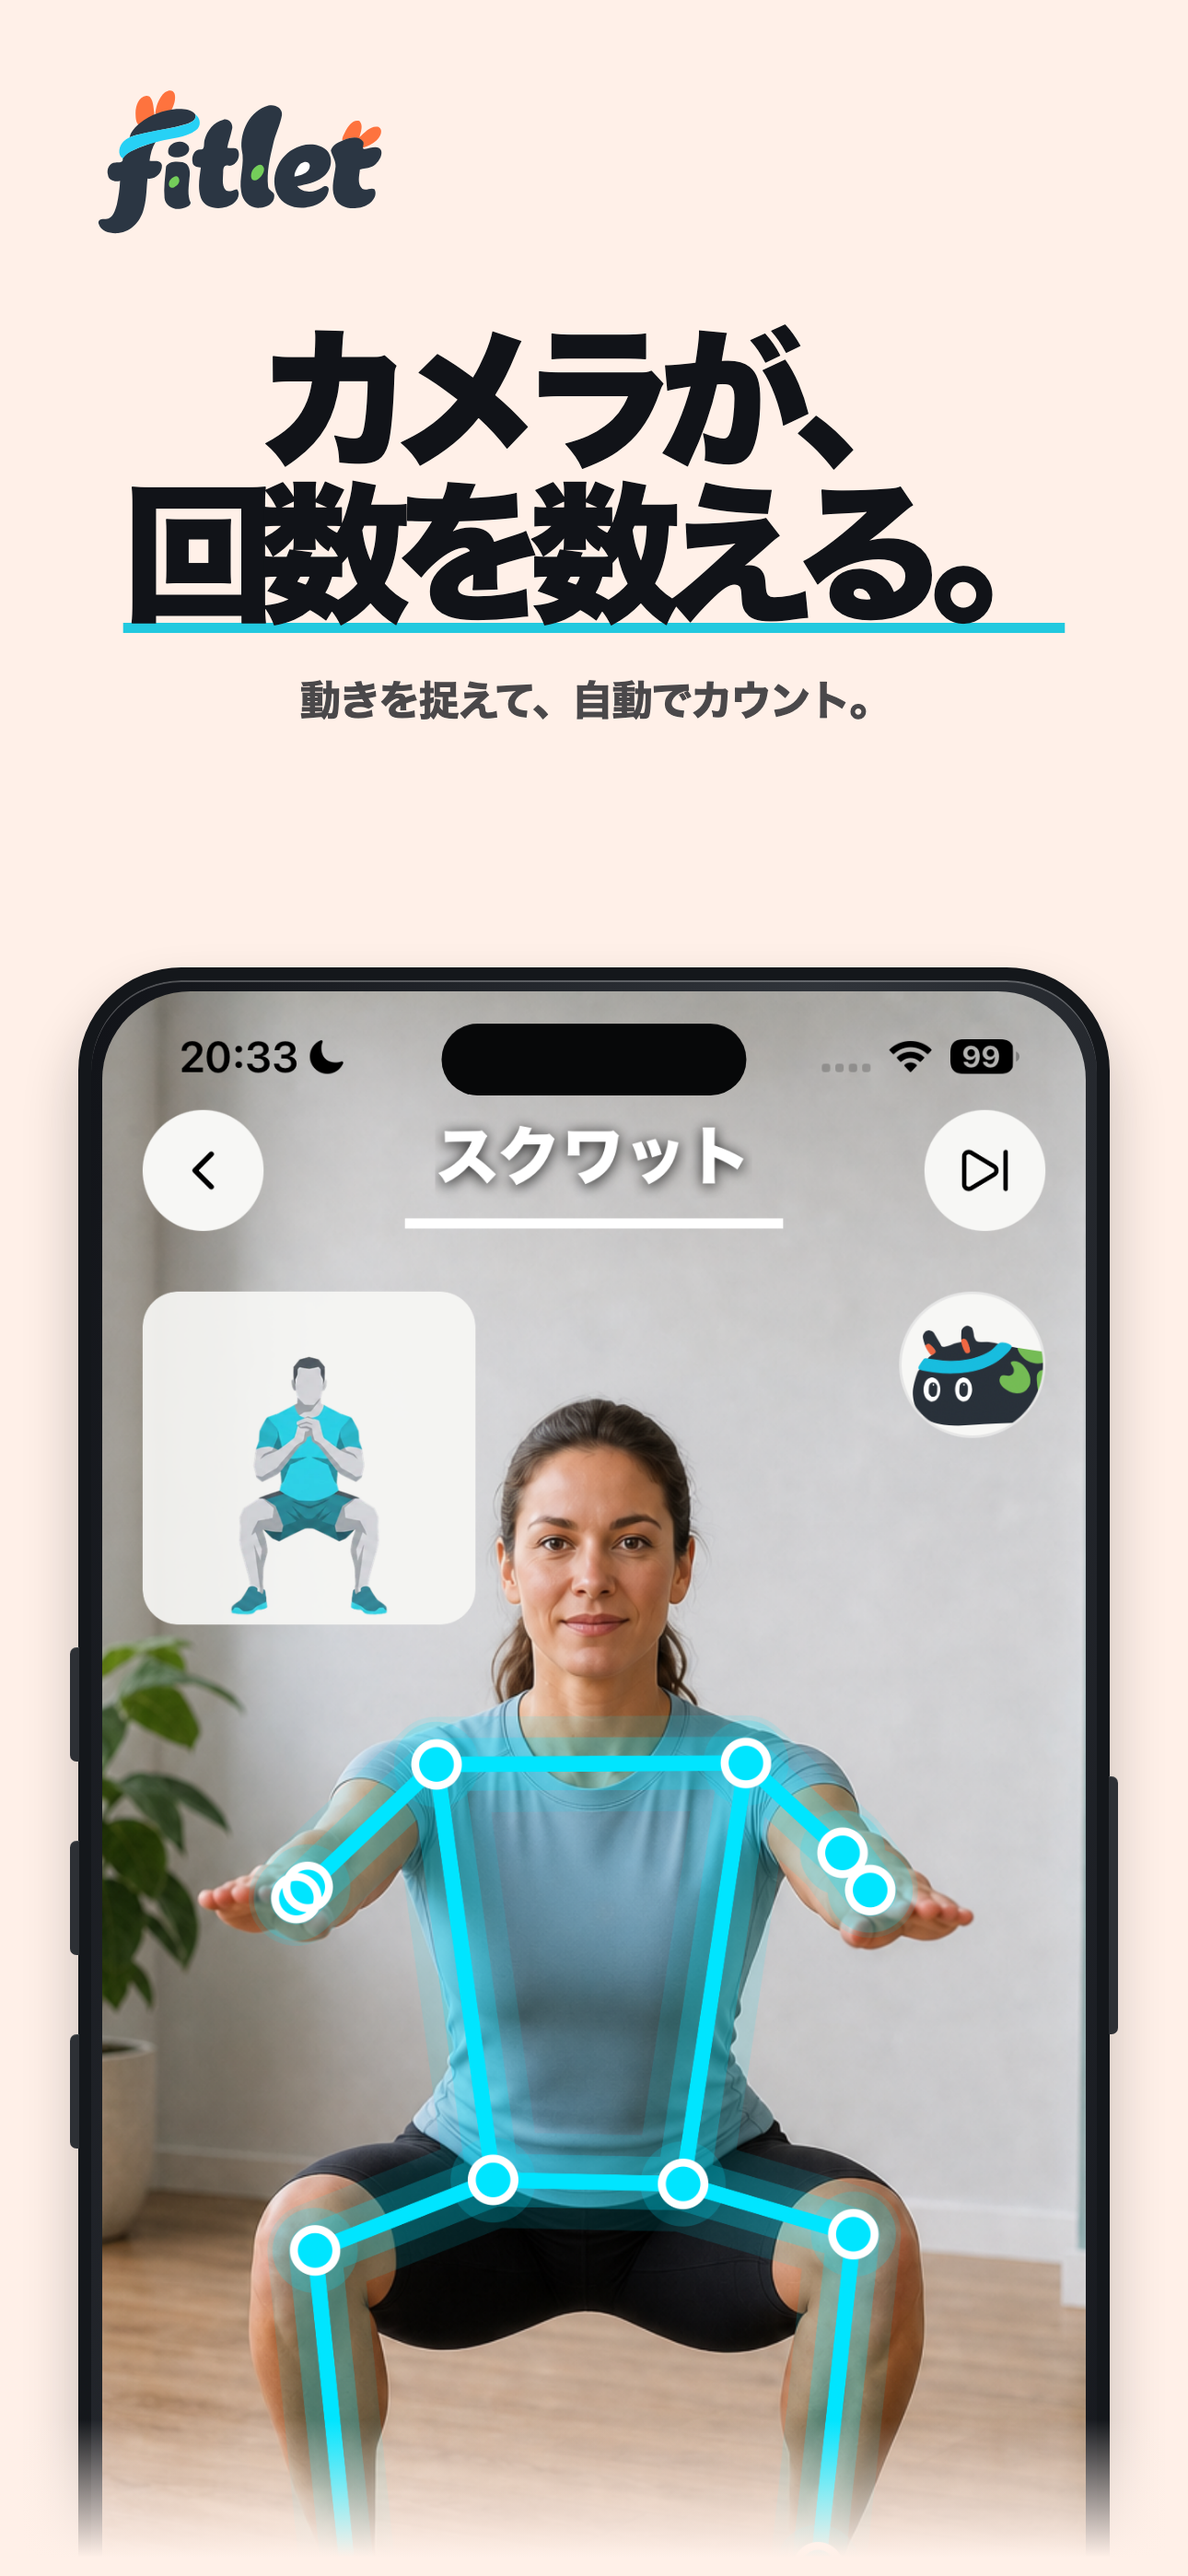
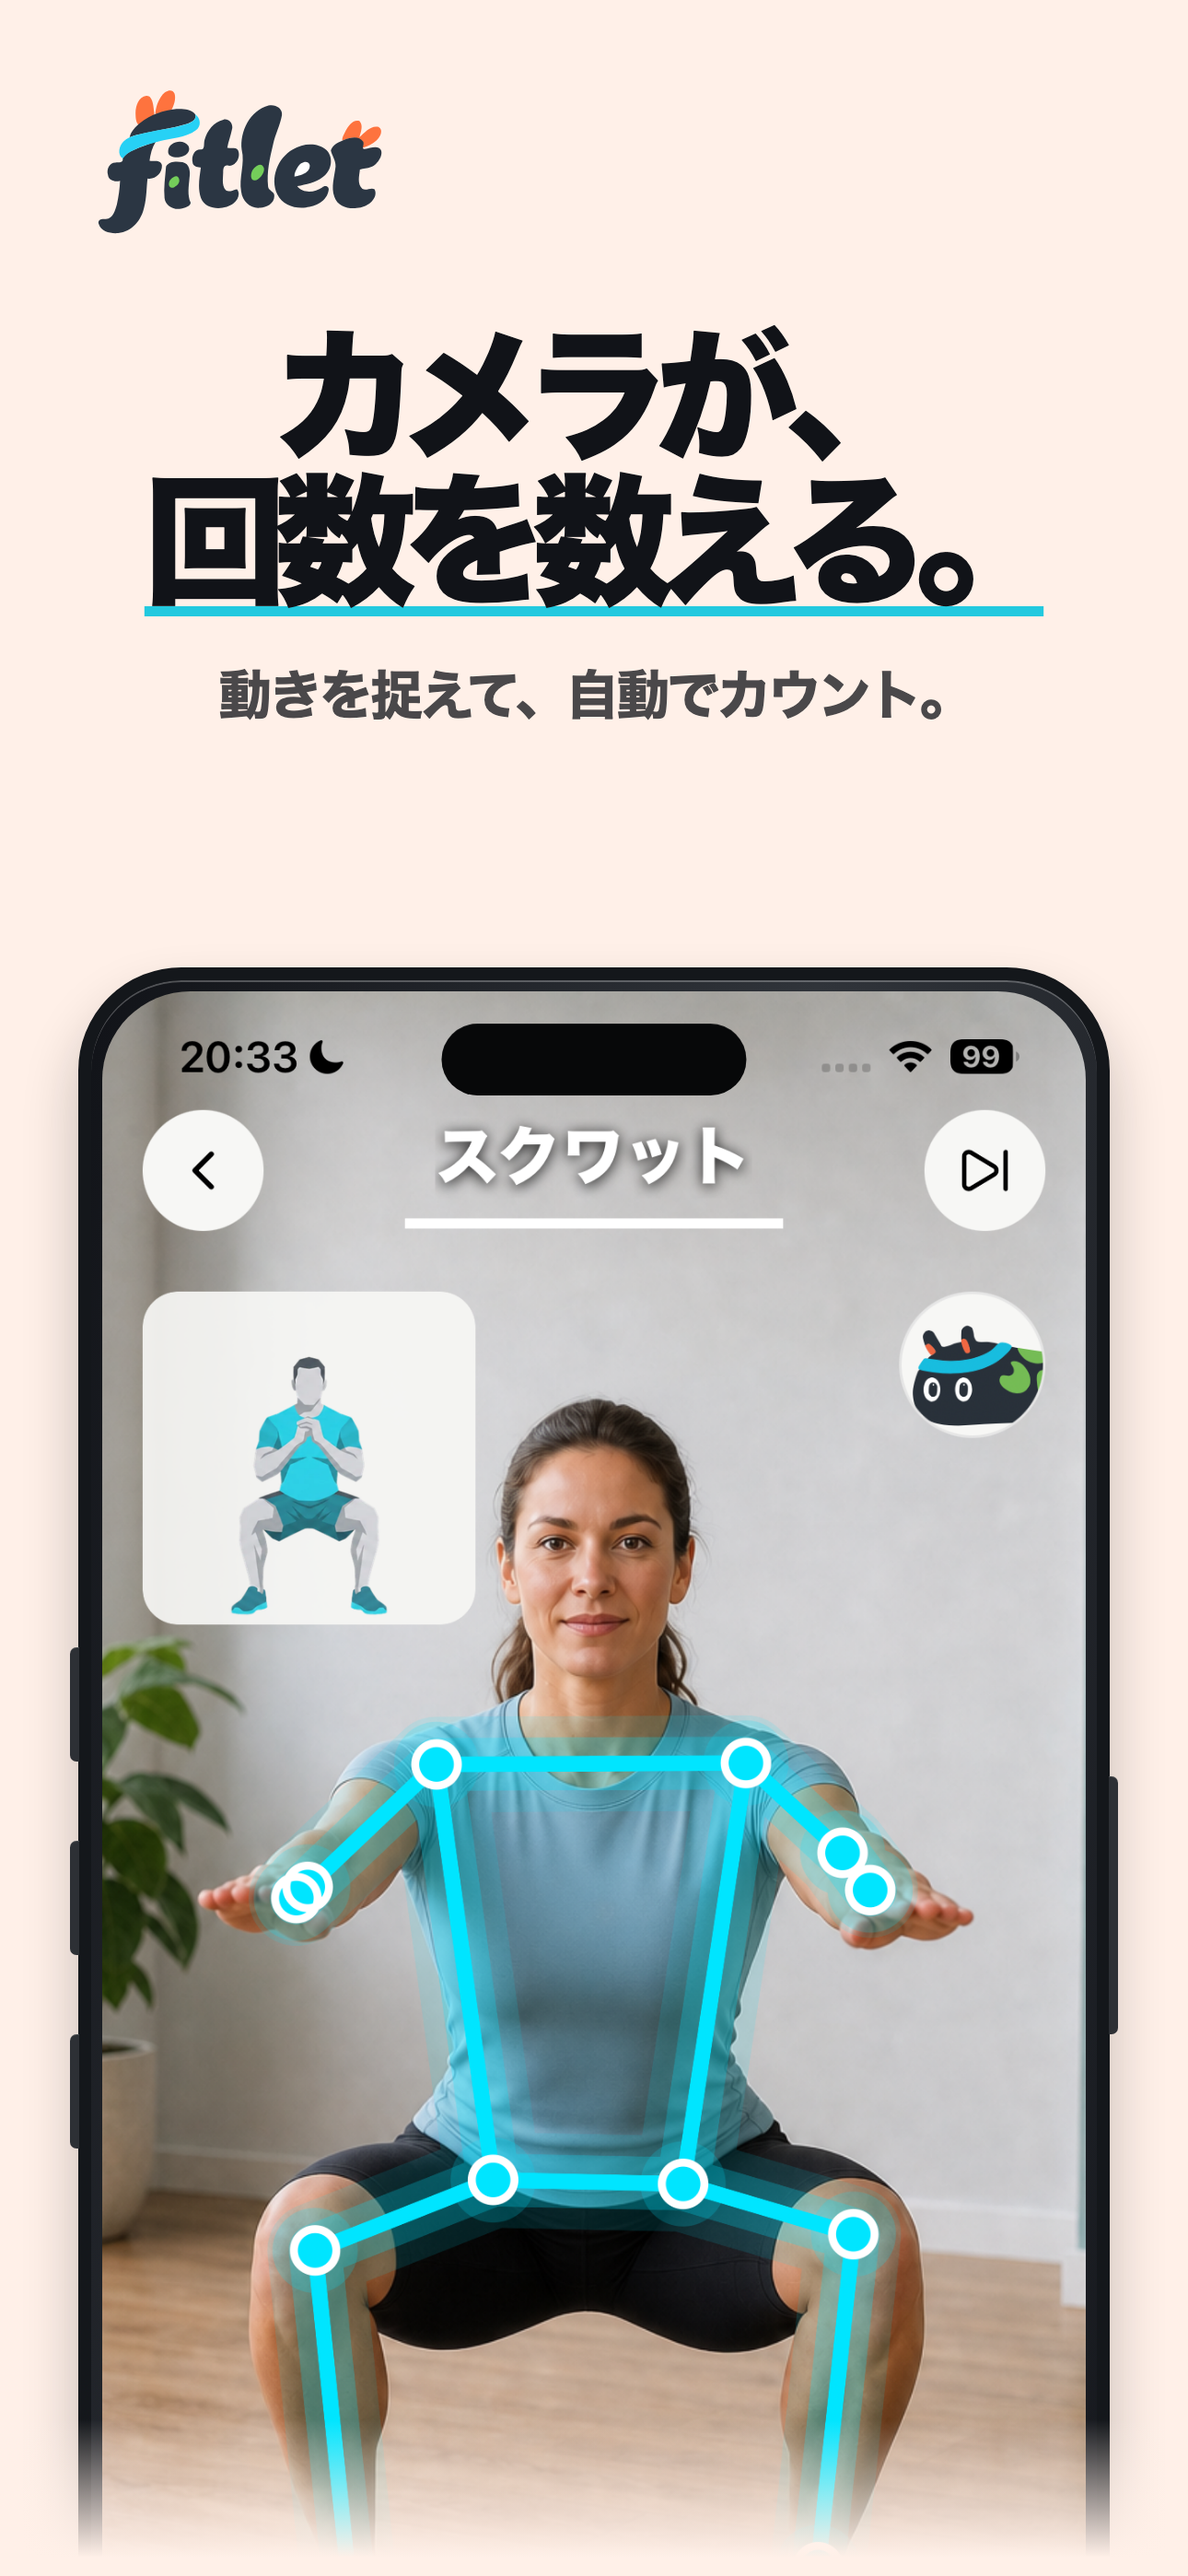
Refine store screenshot typography

Changed region(s): [[0.093, 0.1245, 0.8992, 0.28]]

diff --git a/app/store-screenshot/page.tsx b/app/store-screenshot/page.tsx
@@ -6,38 +6,38 @@ import { publicAsset } from "../lib/publicAsset";
 const scenes = {
   home: {
     label: "ホーム",
-    title: <>動くと、<br /><span>マップが進む。</span></>,
+    title: <><span className="store-shot-title-line">動くと、</span><span className="store-shot-title-line store-shot-title-emphasis">マップが進む。</span></>,
     detail: "終えるたび、次の場所へ。",
     src: "/app-screens/ja/real-home.png",
   },
   session: {
     label: "トレーニング中",
-    title: <>カメラが、<br /><span>回数を数える。</span></>,
+    title: <><span className="store-shot-title-line">カメラが、</span><span className="store-shot-title-line store-shot-title-emphasis">回数を数える。</span></>,
     detail: "動きを捉えて、自動でカウント。",
     src: "/app-screens/ja/real-session.png",
   },
   training: {
     label: "トレーニング",
-    title: <><span>好きな運動から、</span><br />始められる。</>,
+    title: <><span className="store-shot-title-line store-shot-title-emphasis">好きな運動から、</span><span className="store-shot-title-line">始められる。</span></>,
     detail: "39種目から、自由に選べる。",
     src: "/app-screens/ja/real-training.png",
   },
   league: {
     label: "リーグ",
-    title: <>動いた分だけ、<br /><span>順位が変わる。</span></>,
+    title: <><span className="store-shot-title-line">動いた分だけ、</span><span className="store-shot-title-line store-shot-title-emphasis">順位が変わる。</span></>,
     detail: "毎週のFPで、仲間と競える。",
     src: "/app-screens/ja/real-league.png",
   },
   coach: {
     label: "Pro・コーチ",
-    title: <>今日のメニューを、<br /><span>コーチに任せる。</span></>,
+    title: <><span className="store-shot-title-line">今日のメニューを、</span><span className="store-shot-title-line store-shot-title-emphasis">コーチに任せる。</span></>,
     detail: "Proなら、次の運動を提案。",
     src: "/app-screens/ja/real-coach.png",
     pro: true,
   },
   profile: {
     label: "プロフィール",
-    title: <><span>続けた記録</span>が、<br />残っていく。</>,
+    title: <><span className="store-shot-title-line store-shot-title-emphasis">続けた記録が、</span><span className="store-shot-title-line">残っていく。</span></>,
     detail: "続けた日数やレベルを記録。",
     src: "/app-screens/ja/real-profile.png",
   },
@@ -57,7 +57,7 @@ function StoreShotCanvas({ sceneKey }: { sceneKey: SceneKey }) {
       <div className="store-shot-brand">
         <img src={publicAsset("/brand/fitlet-logo.svg")} alt="Fitlet" />
       </div>
-      {scene.pro ? <div className="store-shot-pro-badge">PRO</div> : null}
+      {scene.pro ? <img className="store-shot-pro-logo" src={publicAsset("/brand/fitlet-pro-logo.svg")} alt="Fitlet Pro" /> : null}
       <div className="store-shot-copy">
         <h1>{scene.title}</h1>
         <p>{scene.detail}</p>

diff --git a/app/globals.css b/app/globals.css
@@ -1032,18 +1032,14 @@ img { display: block; max-width: 100%; }
   width: 320px;
 }
 .store-shot-brand img { display: block; width: 100%; max-width: none; height: auto; }
-.store-shot-pro-badge {
+.store-shot-pro-logo {
   position: absolute;
   z-index: 8;
   top: 100px;
   right: 100px;
-  border-radius: 999px;
-  padding: 20px 30px 18px;
-  background: #fff;
-  color: #111318;
-  font-size: 30px;
-  font-weight: 950;
-  letter-spacing: .08em;
+  display: block;
+  width: 250px;
+  height: auto;
 }
 .store-shot-copy {
   position: absolute;
@@ -1056,12 +1052,16 @@ img { display: block; max-width: 100%; }
 .store-shot-copy h1 {
   max-width: 1180px;
   margin: 0;
-  font-size: 164px;
+  font-size: 154px;
   font-weight: 950;
-  letter-spacing: -.105em;
+  letter-spacing: -.09em;
   line-height: 1.02;
 }
-.store-shot-copy h1 span {
+.store-shot-title-line {
+  display: block;
+  white-space: nowrap;
+}
+.store-shot-title-emphasis {
   white-space: nowrap;
   text-decoration-line: underline;
   text-decoration-thickness: 11px;
@@ -1070,11 +1070,11 @@ img { display: block; max-width: 100%; }
 }
 .store-shot-copy p {
   max-width: 1060px;
-  margin: 42px 0 0;
+  margin: 48px 0 0;
   color: rgba(17,19,24,.76);
-  font-size: 45px;
+  font-size: 58px;
   font-weight: 780;
-  letter-spacing: -.045em;
+  letter-spacing: -.055em;
   line-height: 1.45;
   margin-right: auto;
   margin-left: auto;
@@ -1134,13 +1134,15 @@ img { display: block; max-width: 100%; }
 .store-shot-training { --store-bg: #eef6d6; --store-accent: #75bd4d; }
 .store-shot-league { --store-bg: #fff9e8; --store-accent: #d99446; }
 .store-shot-profile { --store-bg: #f4f3ef; --store-accent: #fa5b91; }
+.store-shot-training .store-shot-copy h1,
+.store-shot-coach .store-shot-copy h1 { font-size: 128px; }
+.store-shot-profile .store-shot-copy h1 { font-size: 140px; }
 .store-shot-coach {
   --store-bg: #10131b;
   --store-accent: #f0c25d;
   --store-ink: #fff;
 }
 .store-shot-coach .store-shot-brand { filter: brightness(0) invert(1); }
-.store-shot-coach .store-shot-copy h1 { font-size: 140px; }
 .store-shot-coach .store-shot-copy p { color: #c9ced3; }
 .store-shot-coach .store-shot-phone { box-shadow: 0 35px 60px rgba(0,0,0,.35), 0 2px 0 rgba(255,255,255,.1) inset; }
 
@@ -1166,8 +1168,8 @@ img { display: block; max-width: 100%; }
 .store-shot-gallery-card strong { font-size: 17px; font-weight: 950; }
 .store-shot-gallery-card span { color: #687178; font-size: 13px; font-weight: 850; }
 
-/* The landing page shows the app's upper 13/14 so the real UI reads faster. */
-.fitlet-new-site .fitlet-new-device { aspect-ratio: 1170 / 2350; }
+/* The landing page shows the app's upper 15/16 so the real UI reads faster. */
+.fitlet-new-site .fitlet-new-device { aspect-ratio: 1170 / 2374; }
 .fitlet-new-site .fitlet-new-device-screen img { object-fit: cover; object-position: top center; }
 
 @media (prefers-reduced-motion: reduce) {
